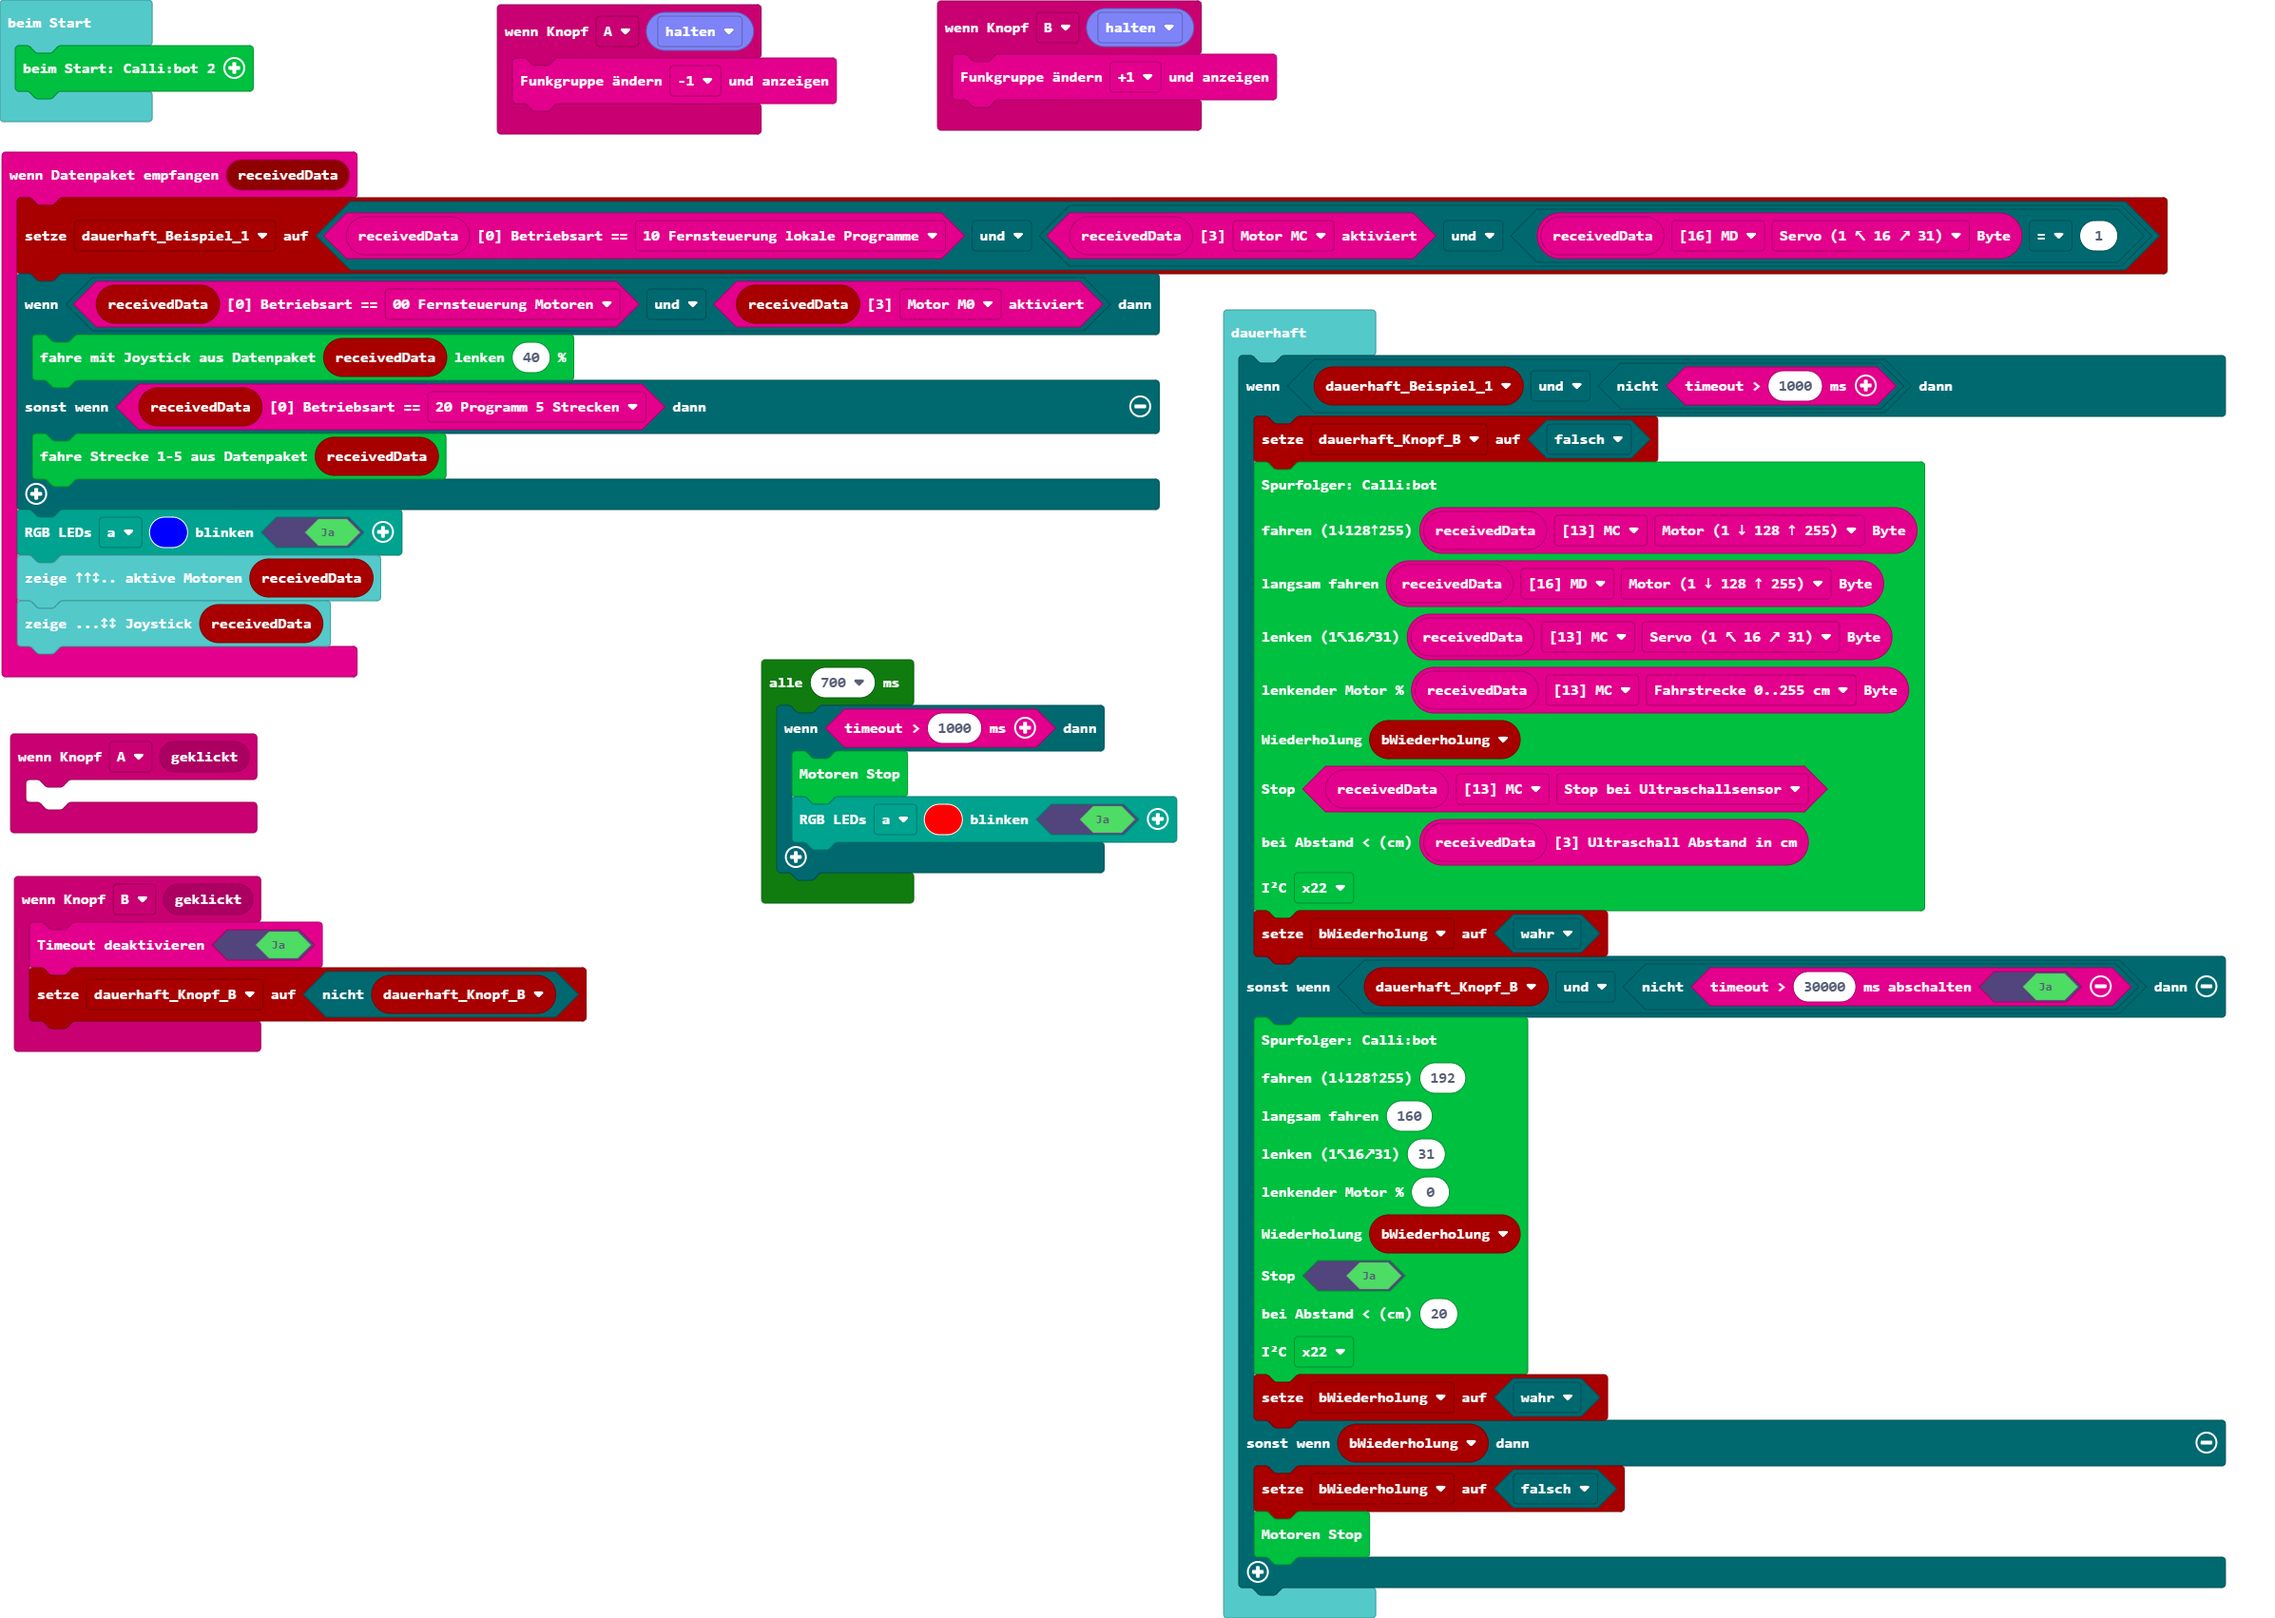
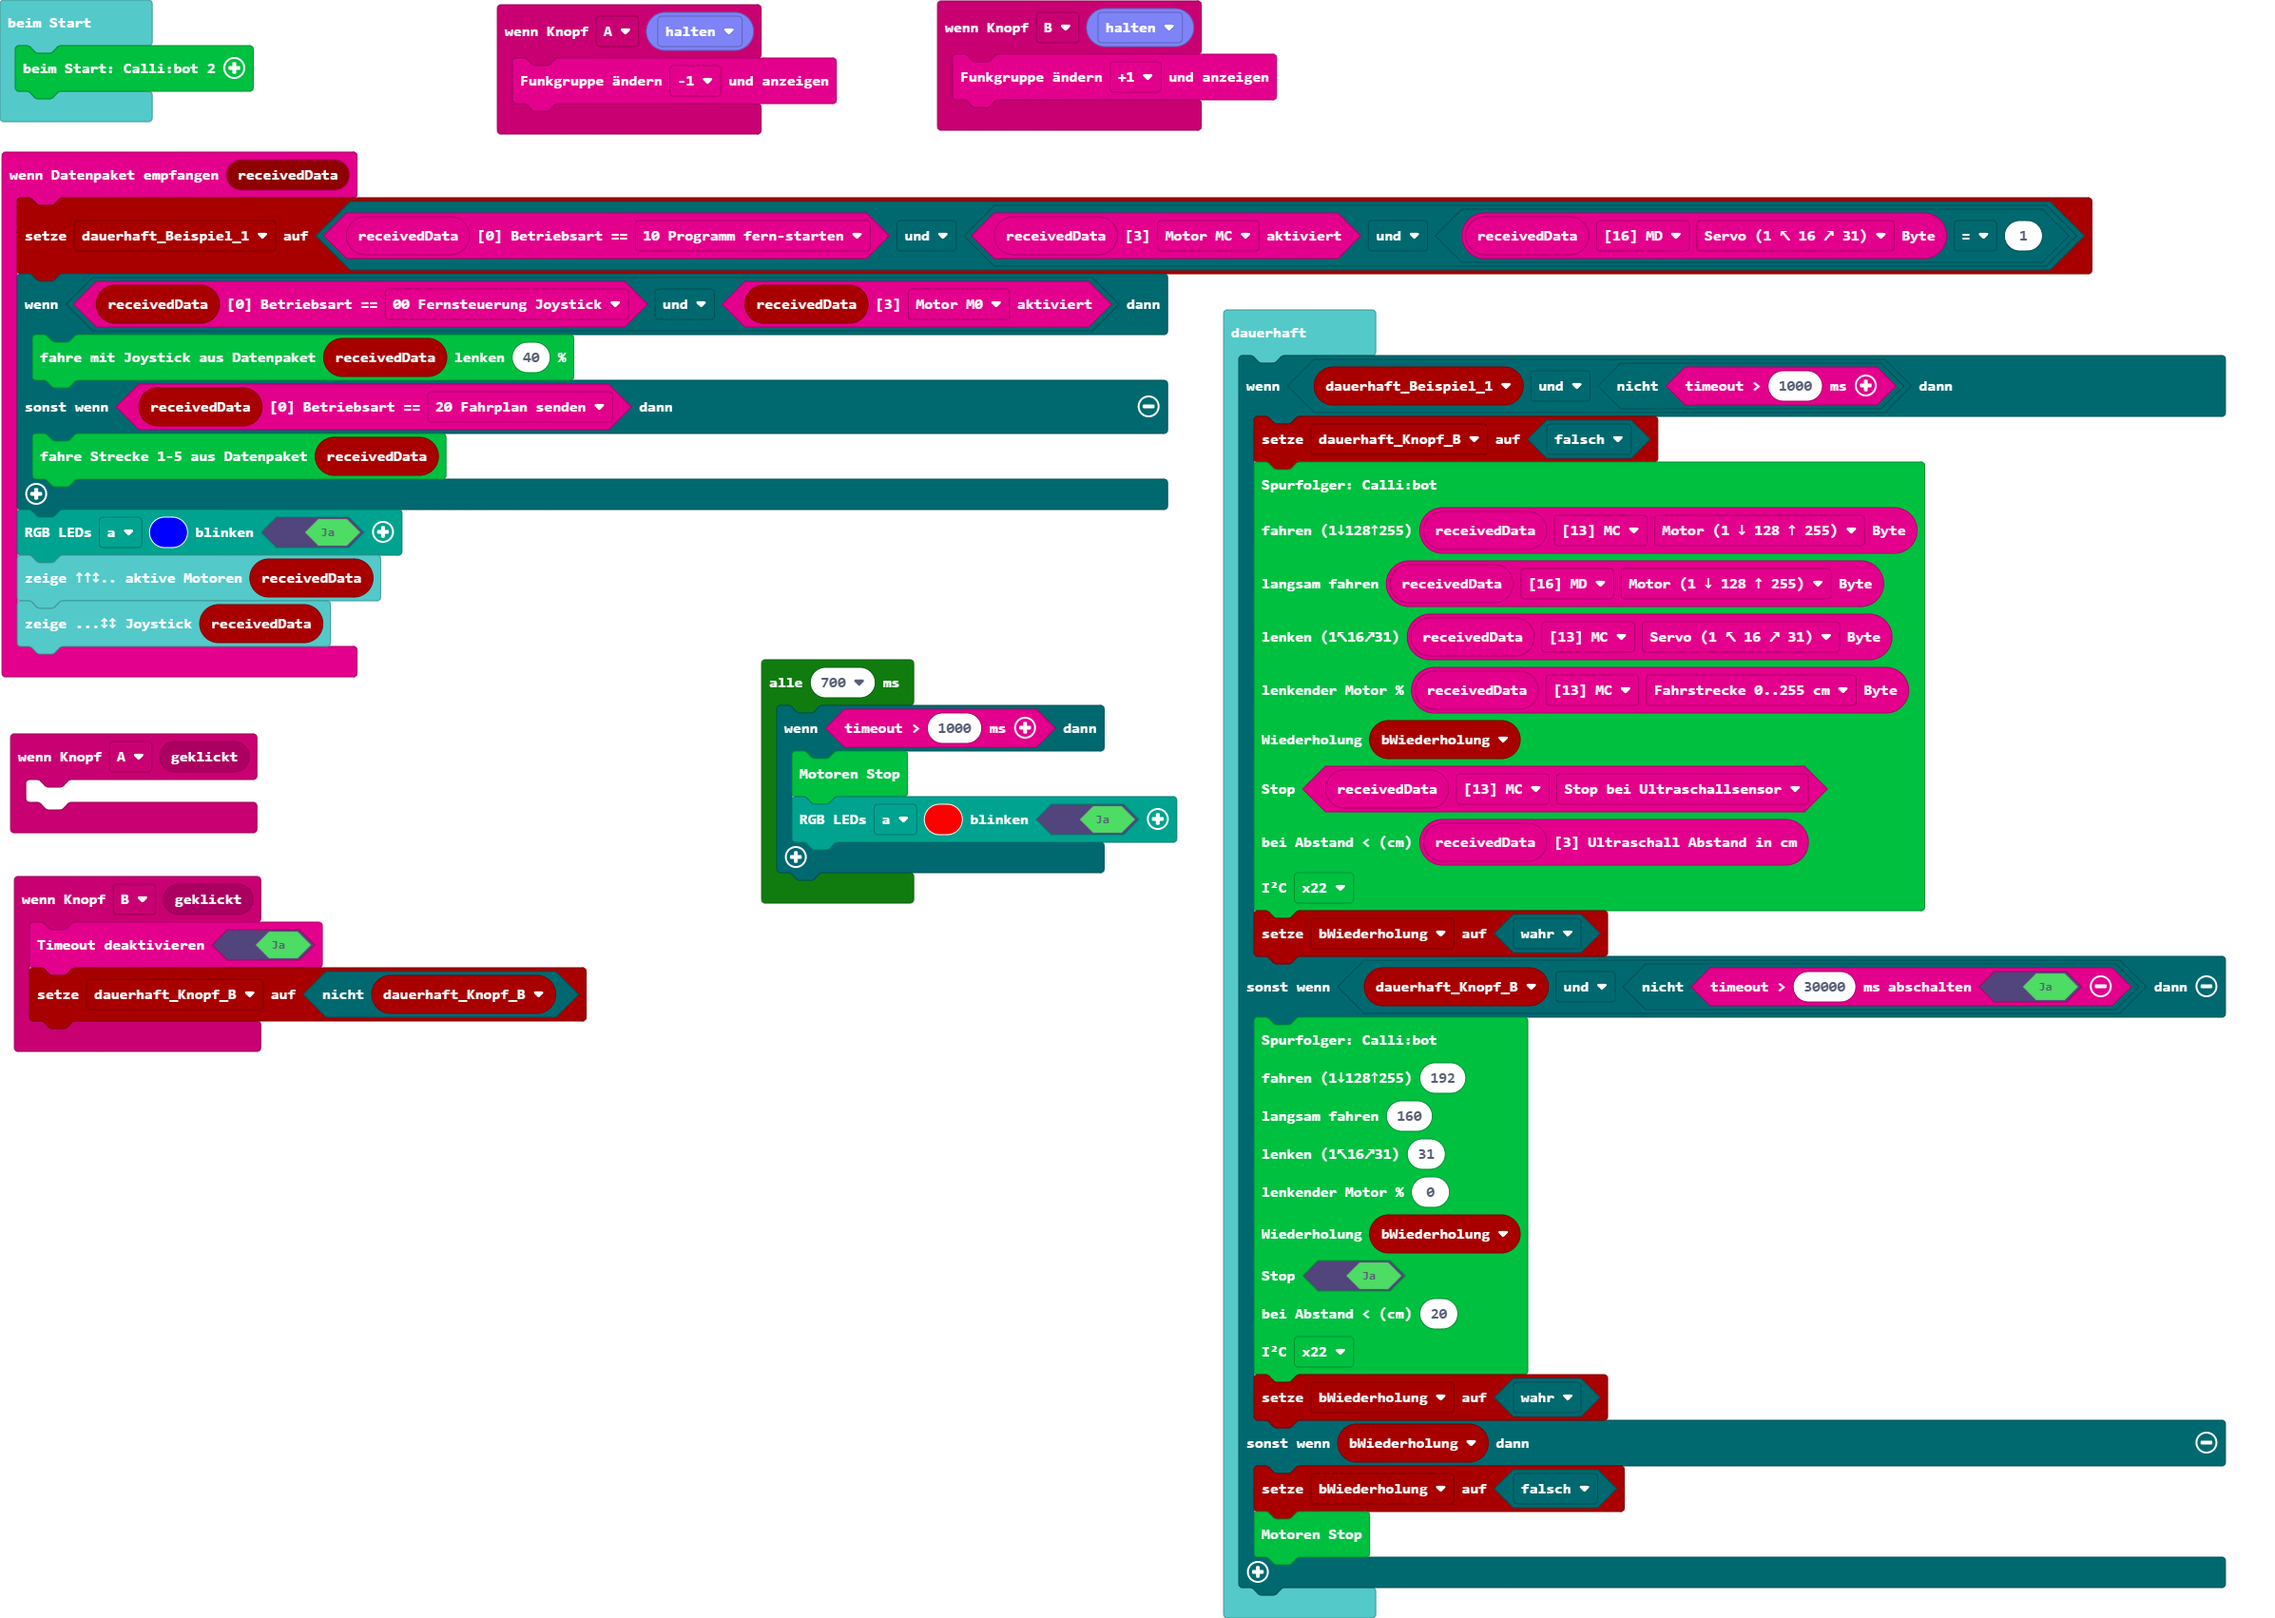
Aktualisiere pxt.json, main.blocks, main.ts

diff --git a/main.ts b/main.ts
@@ -12,7 +12,7 @@ btf.onReceivedData(function (receivedData) {
     dauerhaft_Beispiel_1 = btf.isBetriebsart(btf.btf_receivedBuffer19(), btf.e0Betriebsart.p1Lokal) && (btf.getaktiviert(btf.btf_receivedBuffer19(), btf.e3aktiviert.mc) && btf.getByte(btf.btf_receivedBuffer19(), btf.eBufferPointer.md, btf.eBufferOffset.b1_Servo) == 1)
     if (btf.isBetriebsart(receivedData, btf.e0Betriebsart.p0Fahren) && btf.getaktiviert(receivedData, btf.e3aktiviert.m0)) {
         cb2.fahreJoystick(receivedData, 40)
-    } else if (btf.isBetriebsart(receivedData, btf.e0Betriebsart.p2Strecken)) {
+    } else if (btf.isBetriebsart(receivedData, btf.e0Betriebsart.p2Fahrplan)) {
         cb2.fahreBuffer19(receivedData)
     }
     receiver.rgbLEDs(receiver.eRGBled.a, 0x0000ff, true)
